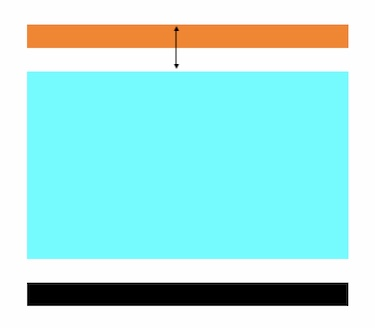
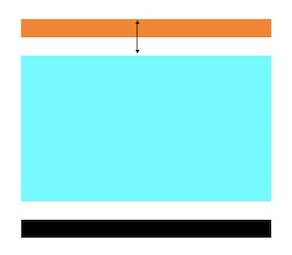
resizes vertical spacing jpg to match horizontal spacing png

diff --git a/README.md b/README.md
@@ -43,7 +43,8 @@ or since the default is vertical
 - center the item in focus
 - allow the previous item to be visible
 
-![](Media/spacing.png)                                        ![](Media/spacing-vertical.png)
+![](Media/spacing.png)
+![](Media/spacing-vertical.jpg)
 
 set the following property
 ```swift
